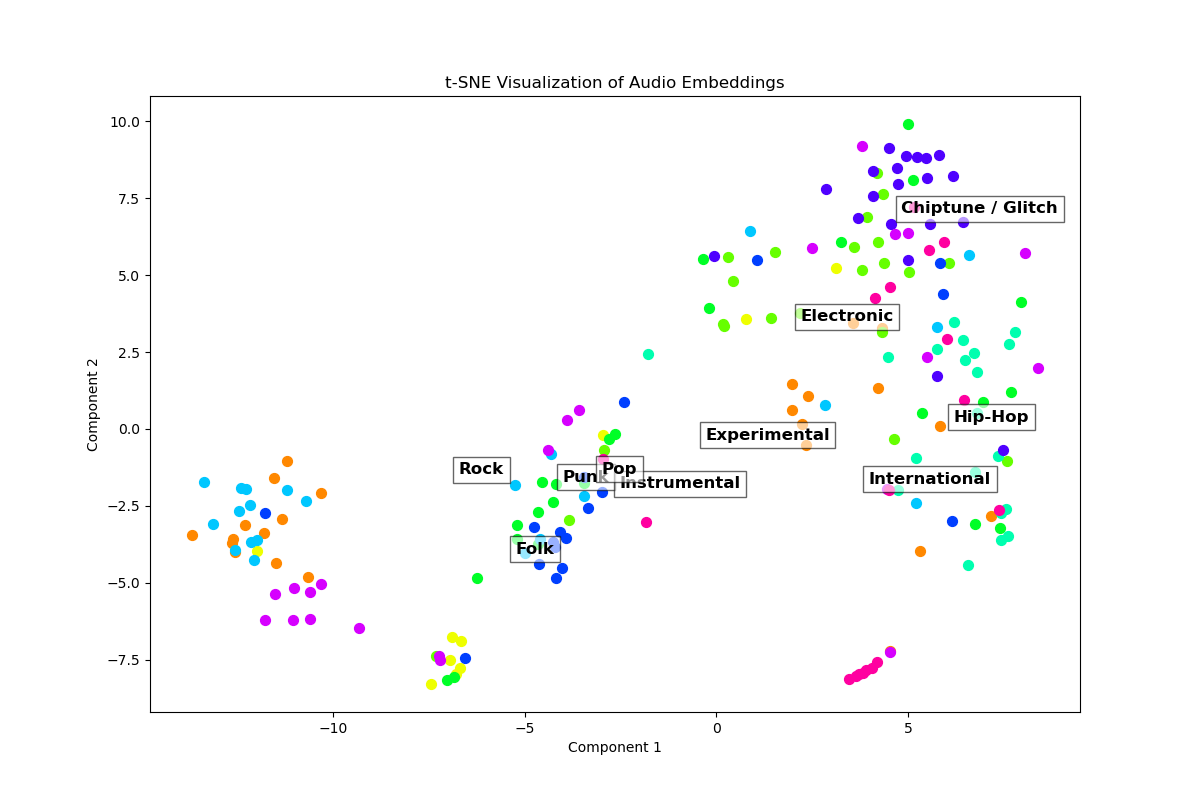
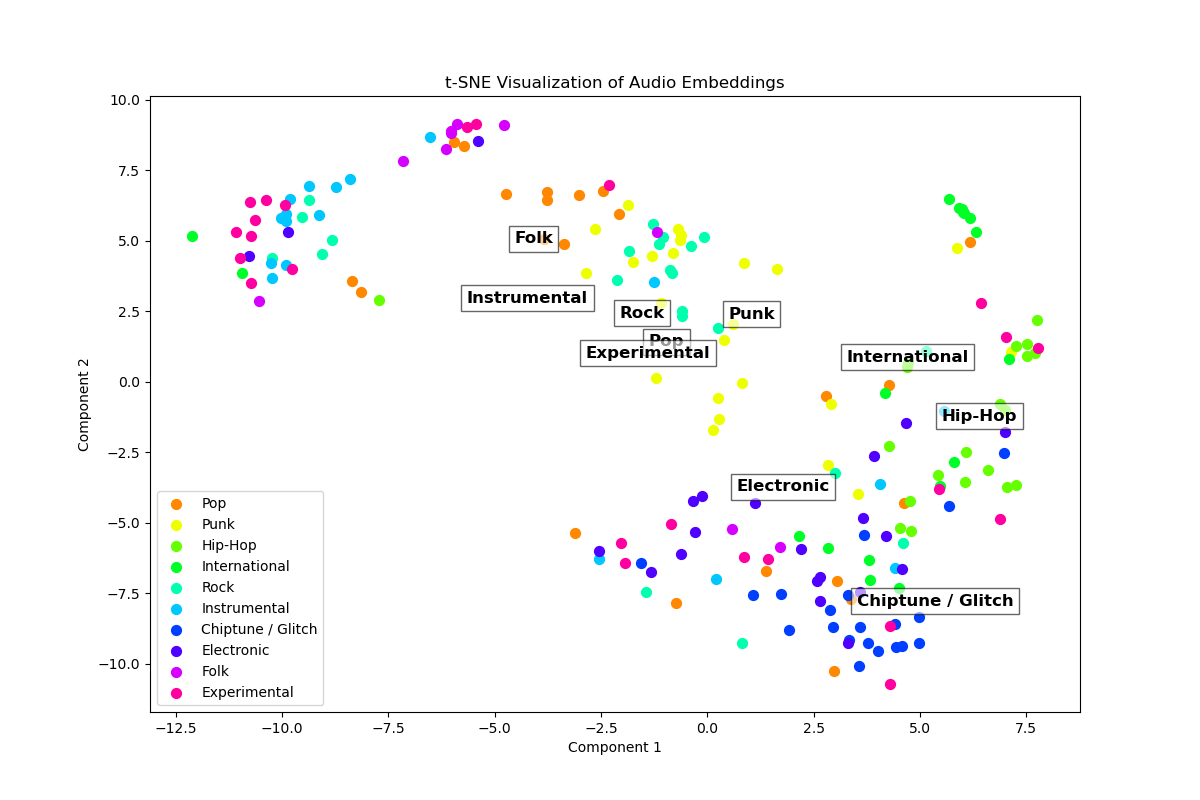
graphs again with legend

diff --git a/visualization.py b/visualization.py
@@ -35,7 +35,7 @@ def plot_embedding_visualization(embeddings, labels, label_names, method="pca", 
     # Scatter plot for each label
     for label in unique_labels:
         idx = np.where(np.array(labels) == label)
-        plt.scatter(reduced_embeddings[idx, 0], reduced_embeddings[idx, 1], color=color_mapping[label], s=50)
+        plt.scatter(reduced_embeddings[idx, 0], reduced_embeddings[idx, 1], color=color_mapping[label], s=50, label=label_names[label])
 
         # Calculate the center of the cluster and place the label name there
         x_mean = np.mean(reduced_embeddings[idx, 0])
@@ -46,6 +46,7 @@ def plot_embedding_visualization(embeddings, labels, label_names, method="pca", 
     plt.title(title)
     plt.xlabel("Component 1")
     plt.ylabel("Component 2")
+    plt.legend()
     if save_path:
         plt.savefig(save_path)
     plt.show()
